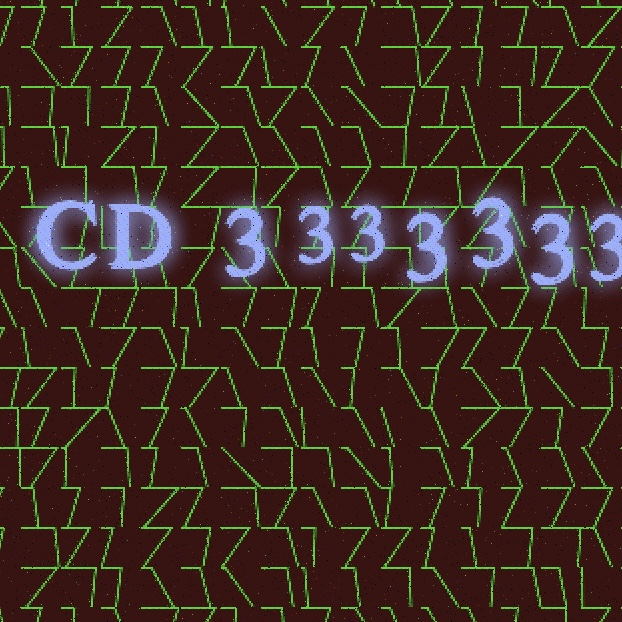
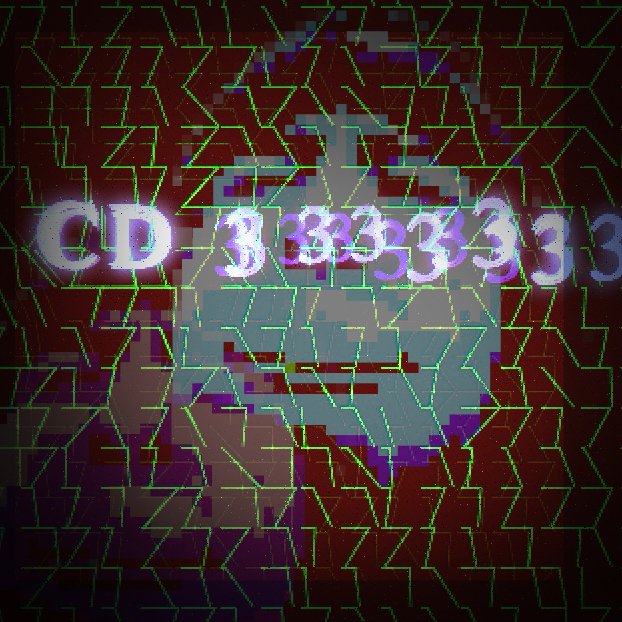
Touching Up CD Collection CSS
Ok I did get a little passionate designing the UI for this area, I just needed it to be perfect. But honestly I think everything looks just how I want it to. Next thing of course would be adding in functionality, which will be lots of fun

diff --git a/header.css b/header.css
@@ -128,20 +128,53 @@
 /* Modal content wrapper */
 .modal-content {
   position: relative;
-  background: #111; /* fallback */
+  background:transparent;
   margin: 5% auto;
-  padding: 20px;
-  width: 90%;
-  max-width: 1200px;
+  padding: 60px;
+  width: 100%;
   color: #fff;
   border-radius: 12px;
   display: flex;
   justify-content: center;
   align-items: center;
   perspective: 1200px;
+  transform: translateY(-25px);
 }
 
-/* Binder background */
+/* H2 top left */
+#cdCollectionModal h2 {
+  position: absolute;
+  top: 10px;
+  left: 20px;
+  margin: 0;
+  font-size: 28px;
+  font-weight: bold;
+  font-family:'Courier New', Courier, monospace;
+  color: #fff;
+  z-index: 100; /* above everything ;*/
+}
+
+/* Close button top right */
+#cdCollectionModal .close {
+  position: absolute;
+  top: 10px;
+  right: 20px;
+  font-size: 28px;
+  font-weight: bold;
+  color: #fff;
+  cursor: pointer;
+  z-index: 100; /* above everything */
+  transition: color 0.2s ease;
+}
+
+#cdCollectionModal .close:hover {
+  color: #ff4c4c;
+}
+
+
+
+
+/* Ultra-rich textured binder background */
 .cd-binder {
   position: relative;
   display: flex;
@@ -149,11 +182,53 @@
   justify-content: center;
   align-items: center;
   padding: 20px;
-  background: #191612; /* woodish binder color */
+
+  /* Base dark leather color */
+  background-color: #18130c;
+
+  /* Multiple layered gradients for rich texture */
+  background-image: 
+    /* fine speckles */
+    radial-gradient(rgba(255,255,255,0.05) 0.5px, transparent 0.5px),
+    radial-gradient(rgba(0,0,0,0.05) 0.5px, transparent 0.5px),
+    /* larger noise for depth */
+    radial-gradient(rgba(255,255,255,0.03) 1.5px, transparent 1.5px),
+    radial-gradient(rgba(0,0,0,0.03) 1.5px, transparent 1.5px),
+    /* soft subtle highlight for leather sheen */
+    linear-gradient(120deg, rgba(255,255,255,0.03) 0%, rgba(0,0,0,0.02) 100%);
+  
+  /* Different scales for varied depth */
+  background-size: 2px 2px, 3px 3px, 6px 6px, 9px 9px, 100% 100%;
+  
+  background-blend-mode: overlay, overlay, overlay, overlay, overlay;
+
   border-radius: 16px;
   box-shadow: 0 10px 30px rgba(0,0,0,0.6);
-  transform: translateX(-70px);
+  transform: translateX(0px);
 }
+
+/* Leather overlays */
+.binder-leather {
+  position: absolute;
+  top: 0;
+  width: 50%;          /* half the binder width */
+  height: 100%;
+  object-fit: cover;
+  opacity: 0.19;       /* adjust for subtlety */
+  pointer-events: none;
+  filter: brightness(1.4) contrast(1.1); /* brighten and enhance texture */
+  z-index: 1;
+}
+
+/* Position left and right overlays */
+.binder-leather.left {
+  left: 0;
+}
+
+.binder-leather.right {
+  right: 0;
+}
+
 
 /* Page styling */
 .page {
@@ -233,6 +308,7 @@
    CD DISC
 ===================== */
 
+/* Make CD artwork punchier */
 .cd {
   width: 100%;
   height: 100%;
@@ -250,7 +326,11 @@
   /* Center hole */
   mask: radial-gradient(circle, transparent 50px, black 50px);
   -webkit-mask: radial-gradient(circle, transparent 50px, black 50px);
+
+  /* Boost visual impact */
+  filter: brightness(1.1) contrast(1.3) saturate(1.2);
 }
+
 
 /* Light streak overlay */
 .cd::before {

diff --git a/index.html b/index.html
@@ -70,6 +70,11 @@ rel="stylesheet">
 
     <div class="cd-binder">
 
+  <!-- Left leather overlay -->
+  <img src="images/leather.png" alt="Leather texture" class="binder-leather left">
+  <!-- Right leather overlay -->
+  <img src="images/leather.png" alt="Leather texture" class="binder-leather right">
+
       <!-- LEFT PAGE -->
       <div class="page left">
         <div class="cd-grid">
@@ -112,9 +117,9 @@ rel="stylesheet">
             <div class="cd" data-cd style="--art:url('images/CD/cd7.jpg')"></div>
             <div class="hub-ring"></div>
           </div>
-
+ 
           <div class="cd-slot" style="--offset-x: -9px; --offset-y: -25px;">
-            <div class="cd" data-cd style="--art:url('images/CD/cd8.jpg')"></div>
+            <div class="cd" data-cd style="--art:url('images/CD/cd8.jpeg')"></div>
             <div class="hub-ring"></div>
           </div>
         </div>
